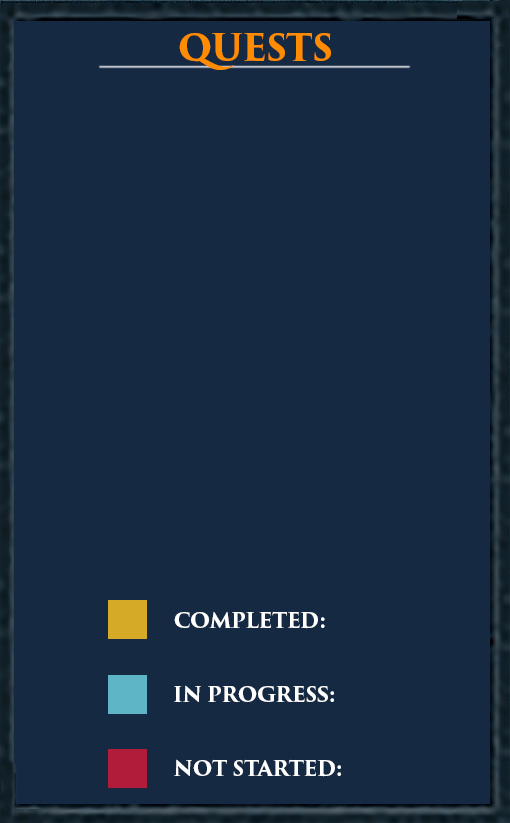
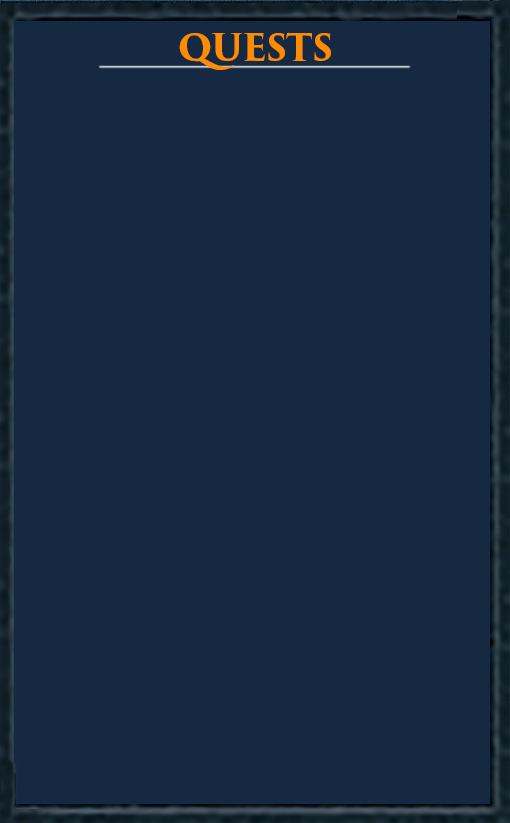
Create DonutChart

diff --git a/src/main/java/Command/Structure/DonutChart.java b/src/main/java/Command/Structure/DonutChart.java
@@ -1,0 +1,199 @@
+package Command.Structure;
+
+import java.awt.*;
+import java.awt.image.BufferedImage;
+import java.text.DecimalFormat;
+import java.util.Arrays;
+import java.util.Comparator;
+
+/**
+ * Create a pie chart image
+ */
+public class DonutChart {
+    private final BufferedImage chart, key;
+    private final int total;
+    private final Font font;
+
+    /**
+     * Create a donut chart
+     *
+     * @param sections Sections to use in chart
+     * @param font     Font to use in key
+     */
+    public DonutChart(Section[] sections, Font font) {
+        this.font = font;
+        this.total = Arrays.stream(sections).mapToInt(Section::getQuantity).sum();
+        this.chart = buildChart(sections);
+        this.key = buildKey(sections);
+    }
+
+    /**
+     * Build an image displaying the donut chart colour key
+     *
+     * @param sections Sections to build key for
+     * @return Image displaying donut chart colour key
+     */
+    private BufferedImage buildKey(Section[] sections) {
+        Font font = this.font.deriveFont(25f);
+        FontMetrics fm = new Canvas().getFontMetrics(font);
+        int squareSize = 50, gap = 20, y = gap;
+
+        Arrays.sort(sections, Comparator.comparingInt(o -> fm.stringWidth(o.getQuantitySummary(total))));
+        int longestSummary = fm.stringWidth(sections[sections.length - 1].getQuantitySummary(total));
+
+        Arrays.sort(sections, Comparator.comparingInt(o -> fm.stringWidth(o.getTitle())));
+        int longestTitle = fm.stringWidth(sections[sections.length - 1].getTitle() + ": ");
+
+        BufferedImage key = new BufferedImage(
+                squareSize + gap + longestTitle + gap + longestSummary,
+                (squareSize * sections.length) + (gap * (sections.length + 1)),
+                BufferedImage.TYPE_INT_ARGB
+        );
+        Graphics g = key.getGraphics();
+
+        for(Section section : sections) {
+            BufferedImage square = new BufferedImage(
+                    squareSize,
+                    squareSize,
+                    BufferedImage.TYPE_INT_RGB
+            );
+            Graphics h = square.getGraphics();
+            h.setColor(section.getColour());
+            h.fillRect(0, 0, squareSize, squareSize);
+            BufferedImage sectionImage = new BufferedImage(
+                    key.getWidth(),
+                    squareSize,
+                    BufferedImage.TYPE_INT_ARGB
+            );
+            h = sectionImage.getGraphics();
+            h.setColor(Color.WHITE);
+            h.setFont(font);
+            h.drawImage(square, 0, 0, null);
+            int x = square.getWidth() + gap;
+            int mid = (sectionImage.getHeight() / 2) + (h.getFontMetrics().getMaxAscent() / 2);
+            h.drawString(section.getTitle() + ": ", x, mid);
+            h.drawString(section.getQuantitySummary(total), x + longestTitle + gap, mid);
+            h.dispose();
+
+            g.drawImage(sectionImage, 0, y, null);
+            y += sectionImage.getHeight() + gap;
+        }
+        g.dispose();
+        return key;
+    }
+
+    /**
+     * Get the donut chart
+     *
+     * @return Donut chart
+     */
+    public BufferedImage getChart() {
+        return chart;
+    }
+
+    /**
+     * Get the donut chart colour key
+     *
+     * @return Donut chart colour key
+     */
+    public BufferedImage getKey() {
+        return key;
+    }
+
+    /**
+     * Build an image displaying a donut chart from the given sections
+     *
+     * @param sections Sections to display
+     * @return Image displaying donut chart
+     */
+    private BufferedImage buildChart(Section[] sections) {
+        int radius = 150;
+        int diameter = radius * 2;
+        int sectionWidth = 80;
+        BufferedImage chart = new BufferedImage(
+                diameter + sectionWidth,
+                diameter + sectionWidth,
+                BufferedImage.TYPE_INT_ARGB
+        );
+        Graphics2D g = (Graphics2D) chart.getGraphics();
+        g.setStroke(new BasicStroke(sectionWidth, BasicStroke.CAP_BUTT, BasicStroke.JOIN_ROUND));
+        g.setRenderingHint(RenderingHints.KEY_ANTIALIASING, RenderingHints.VALUE_ANTIALIAS_ON);
+
+        int x = (chart.getWidth() / 2) - radius;
+        int y = sectionWidth / 2;
+        double ogStartingAngle = 90, startingAngle = ogStartingAngle;
+        double completeAngle = 360;
+        for(int i = 0; i < sections.length; i++) {
+            Section section = sections[i];
+            int angle = (i == sections.length - 1)
+                    ? (int) (completeAngle - (startingAngle - ogStartingAngle))
+                    : (int) (completeAngle * ((double) section.getQuantity() / total));
+            g.setColor(section.getColour());
+            g.drawArc(x, y, diameter, diameter, (int) startingAngle, angle);
+            startingAngle += angle;
+        }
+        g.dispose();
+        return chart;
+    }
+
+    /**
+     * Donut chart section
+     */
+    public static class Section {
+        private final String title;
+        private final int quantity;
+        private final Color colour;
+
+        /**
+         * Create a pie chart section
+         *
+         * @param title    Title to use for section
+         * @param quantity Quantity of item to build section for
+         * @param colour   Section colour
+         */
+        public Section(String title, int quantity, Color colour) {
+            this.title = title;
+            this.quantity = quantity;
+            this.colour = colour;
+        }
+
+        /**
+         * Get the quantity of item to build section for
+         *
+         * @return Quantity
+         */
+        public int getQuantity() {
+            return quantity;
+        }
+
+        /**
+         * Get the title of the section
+         *
+         * @return Title
+         */
+        public String getTitle() {
+            return title;
+        }
+
+        /**
+         * Get the summary of the section - e.g "15 (25%)"
+         *
+         * @param total Total to find percentage of for quantity
+         * @return String summary - "15 (25%)"
+         */
+        public String getQuantitySummary(int total) {
+            DecimalFormat format = new DecimalFormat("0.00'%'");
+            String percent = format.format((double) quantity / (total / (double) 100));
+            return quantity + " (" + percent + ")";
+        }
+
+        /**
+         * Get the colour of the section
+         *
+         * @return Colour
+         */
+        public Color getColour() {
+            return colour;
+        }
+    }
+}

diff --git a/src/main/java/Runescape/Stats/RS3Hiscores.java b/src/main/java/Runescape/Stats/RS3Hiscores.java
@@ -2,6 +2,7 @@ package Runescape.Stats;
 
 import Bot.FontManager;
 import Bot.ResourceHandler;
+import Command.Structure.DonutChart;
 import Command.Structure.EmbedHelper;
 import Command.Structure.EmoteHelper;
 import Network.NetworkRequest;
@@ -20,6 +21,7 @@ import java.util.ArrayList;
 import java.util.Arrays;
 import java.util.Random;
 
+import static Command.Structure.DonutChart.*;
 import static Runescape.Skill.SKILL_NAME.*;
 
 /**
@@ -140,7 +142,7 @@ public class RS3Hiscores extends Hiscores {
      */
     private BufferedImage buildClueSection(String[] clues) {
         BufferedImage clueSection = null;
-        try{
+        try {
             clueSection = handler.getImageResource(getResourcePath() + "Templates/clue_section.png");
             Graphics g = clueSection.getGraphics();
             g.setFont(getGameFont().deriveFont(40f));
@@ -154,7 +156,7 @@ public class RS3Hiscores extends Hiscores {
             }
             g.dispose();
         }
-        catch(Exception e){
+        catch(Exception e) {
             e.printStackTrace();
         }
         return clueSection;
@@ -168,7 +170,7 @@ public class RS3Hiscores extends Hiscores {
      */
     private BufferedImage buildSkillSection(RS3PlayerStats playerStats) {
         BufferedImage skillSection = null;
-        try{
+        try {
             setGameFont(new Font("TrajanPro-Regular", Font.PLAIN, 55));
             skillSection = getResourceHandler().getImageResource(
                     getResourcePath() + "Templates/skills_section.png"
@@ -213,7 +215,7 @@ public class RS3Hiscores extends Hiscores {
             g.drawString(String.valueOf(playerStats.getCombatLevel()), 730, totalY);
             g.dispose();
         }
-        catch(Exception e){
+        catch(Exception e) {
             e.printStackTrace();
         }
         return skillSection;
@@ -227,7 +229,7 @@ public class RS3Hiscores extends Hiscores {
      */
     private BufferedImage buildTitleSection(RS3PlayerStats playerStats) {
         BufferedImage titleSection = null;
-        try{
+        try {
             String name = playerStats.getName();
             titleSection = handler.getImageResource(getResourcePath() + "Templates/title_section.png");
             BufferedImage avatar = ImageIO.read(
@@ -306,7 +308,7 @@ public class RS3Hiscores extends Hiscores {
             }
             g.dispose();
         }
-        catch(Exception e){
+        catch(Exception e) {
             e.printStackTrace();
         }
         return titleSection;
@@ -319,43 +321,29 @@ public class RS3Hiscores extends Hiscores {
      * @return Quest section displaying player quest stats
      */
     private BufferedImage buildQuestSection(RuneMetrics runeMetrics) {
-        BufferedImage questSection = null;
-        try{
-            double completed = runeMetrics.getQuestsCompleted();
-            double notStarted = runeMetrics.getQuestsNotStarted();
-            double started = runeMetrics.getQuestsStarted();
-            double total = runeMetrics.getTotalQuests();
+        Section[] sections = new Section[]{
+                new Section("Not Started", runeMetrics.getQuestsNotStarted(), red),
+                new Section("In Progress", runeMetrics.getQuestsStarted(), blue),
+                new Section("Completed", runeMetrics.getQuestsCompleted(), orange)
+        };
+        BufferedImage questSection = handler.getImageResource(getResourcePath() + "Templates/quest_section.png");
+        DonutChart donutChart = new DonutChart(sections, getGameFont());
+        Graphics g = questSection.getGraphics();
+        int y = 150;
+        g.drawImage(
+                donutChart.getChart(),
+                (questSection.getWidth() / 2) - (donutChart.getChart().getWidth() / 2),
+                y,
+                null
+        );
 
-            questSection = handler.getImageResource(getResourcePath() + "Templates/quest_section.png");
-            Graphics2D g = (Graphics2D) questSection.getGraphics();
-            g.setStroke(new BasicStroke(80f, BasicStroke.CAP_BUTT, BasicStroke.JOIN_ROUND));
-            g.setRenderingHint(RenderingHints.KEY_ANTIALIASING, RenderingHints.VALUE_ANTIALIAS_ON);
-            int radius = 150;
-            int diameter = radius * 2;
-            int x = (questSection.getWidth() / 2) - radius;
-            int y = (questSection.getHeight() / 4);
-            double angle = 360;
-
-            int notStartedAngle = (int) (angle * (notStarted / total));
-            int startedAngle = (int) (angle * (started / total));
-            int completeAngle = (int) (angle - (startedAngle + notStartedAngle));
-            g.setColor(red);
-            g.drawArc(x, y, diameter, diameter, 90, notStartedAngle);
-            g.setColor(blue);
-            g.drawArc(x, y, diameter, diameter, notStartedAngle + 90, startedAngle);
-            g.setColor(orange);
-            g.drawArc(x, y, diameter, diameter, notStartedAngle + startedAngle + 90, completeAngle);
-            g.setFont(getGameFont().deriveFont(40f));
-            g.setColor(orange);
-            FontMetrics fm = g.getFontMetrics();
-            g.drawString(String.valueOf((int) completed), 385, 619 - (fm.getHeight() / 2) + fm.getAscent());
-            g.drawString(String.valueOf((int) started), 385, 693 - (fm.getHeight() / 2) + fm.getAscent());
-            g.drawString(String.valueOf((int) notStarted), 385, 767 - (fm.getHeight() / 2) + fm.getAscent());
-            g.dispose();
-        }
-        catch(Exception e){
-            e.printStackTrace();
-        }
+        g.drawImage(
+                donutChart.getKey(),
+                (questSection.getWidth() / 2) - (donutChart.getKey().getWidth() / 2),
+                y + donutChart.getChart().getHeight() + 20,
+                null
+        );
+        g.dispose();
         return questSection;
     }
 
